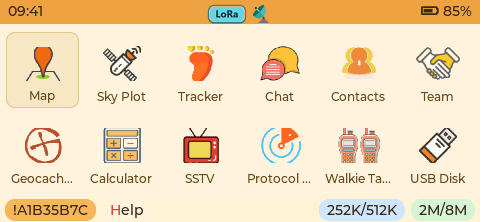
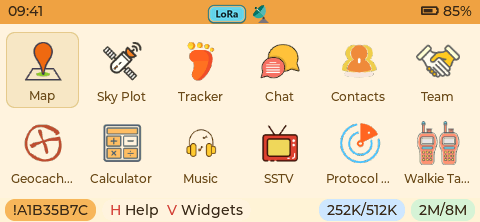
Clarify contact persistence and refresh the launcher guide

diff --git a/README.md b/README.md
@@ -331,15 +331,29 @@ See [SECURITY.md](SECURITY.md) to report a suspected vulnerability privately.
 
 ![logo](docs/images/logo_big.png)
 
-Humanity has never possessed a greater capacity to connect, yet the authority to establish a connection is becoming increasingly concentrated. Accounts determine whether an identity exists. Applications hold the relationships between people. Platforms decide whether information can arrive. Location, searches, reading, conversations, and movement accumulate into digital records that can become more complete than a person's memory and more influential than a person's own explanation.
+On a walk, the useful things are straightforward: see where you are, find a
+route, keep a record and stay in touch with your group. Trail Mate puts those
+tools on a device with its own controls, local maps and a radio. Installed map
+data remains useful when Internet access is unavailable; communication uses
+the protocol and links you configure.
 
-When communication gateways, identity systems, accumulated data, and interpretive authority converge in a few centers, convenience gradually becomes governing power. Algorithms begin to decide who is visible, who is suspicious, who receives an opportunity, and who is excluded. Those decisions disappear into models, policies, and risk scores where responsibility is difficult to identify and appeal is difficult to reach. Countless local choices made in the name of efficiency can accumulate into a vast and silent algorithmic bureaucracy.
+**The person carrying the device should keep control of its identity and data.**
+The device holds its author key. Maps, recordings, messages and contacts have
+local storage. Public discovery, direct contacts, Team position and personal
+tracks have separate sharing rules, so joining a network does not have to mean
+handing one service your complete activity history.
 
-**Decentralization returns the authority to establish digital life to the individual.** A person can generate and hold an identity. Contacts can remain in personally controlled storage. Messages can move directly between devices. Position can be shared only with recipients selected by the user. Changing platforms leaves identity intact. A discontinued service leaves human relationships intact. Infrastructure failure leaves people with the ability to communicate and coordinate.
+When a larger screen helps, use the browser or Center to edit settings, prepare
+maps or work on a trail. The device can authorize a specific publication while
+the computer handles its network connection. Independent directories index
+signed content, and recipients can verify the author's signature. Publishing
+still makes that chosen content public; the privacy section above explains what
+others can retain.
 
-**Trail Mate turns that authority into a system people can hold.** It runs on personally held embedded devices and Linux portable terminals, keeping identity, contacts, messages, position, maps, and tracks on the user's devices. Meshtastic, MeshCore, and Reticulum provide selectable decentralized network paths. Offline maps and on-device TAK capabilities keep navigation, situational awareness, and team coordination available beyond the public Internet.
-
-Trail Mate is something close to a decentralized phone. Users hold their data directly, choose their connection paths, and can understand every sharing relationship. Links may be narrow, device resources may be constrained, and the environment may be completely off-grid; identity, communication, navigation, and coordination remain in human hands.
+Portable files, device-held identity and independently operated services give
+people alternatives when a provider changes or disappears. That is the reason
+for bringing offline navigation, Meshtastic, MeshCore, Reticulum and team tools
+together: keep a useful field companion in the user's hands.
 
 > **Connection is a capability people can hold. Trail Mate keeps that capability in the hands of each user.**
 
@@ -454,10 +468,17 @@ Ongoing work focuses on bug fixes, reliability and security, protocol interopera
 
 ### 🧭 Main Menu Overview
 
-![main menu](docs/images/main.png)
+![main menu](docs/images/menu-widgets/pager-menu.png)
 
-The main menu provides quick access to GPS, LoRa chat, tracker, and system utilities,
-designed for fast navigation on a physical keyboard without deep menu nesting.
+The main menu provides quick access to maps, chat, Tracker, Music and utilities.
+Pager, T-Deck and Wio L2 use the same grid with a column count that adapts to the
+available width. Pager uses W/A/S/D or the wheel to select an app, V to switch
+between apps and widgets, and H for Help. Touch devices expose the same pages
+through their controls and gestures.
+
+*Current native Pager preview with simulated service state. The footer keeps
+the V shortcut visible; this image demonstrates the interface rather than a
+physical-device test.*
 
 
 ### 🧭 GPS Map (Performance-First)
@@ -581,7 +602,7 @@ Messages view shows recent conversations and history for quick review.
 * Compatible with **MeshCore networks** (native MeshCore packet path)
 * Standalone operation with on-device controls and optional USB tools; Meshtastic / MeshCore companion-app connections are outside the supported product workflow
 * Designed for high latency, low bandwidth, and packet-loss environments
-* Contacts, conversations, and messages are persisted on-device; the SD card is the configuration source for Reticulum networking and its editable contact directory
+* Contacts, conversations and messages persist on-device. Reticulum networking uses the SD working configuration; the firmware manages its binary peer directory.
 
 For the Reticulum SD-card format, file locations, contact import, and on-device operations, see the [Reticulum Mode User Guide](https://github.com/vicliu624/trail-mate/wiki/3.5-Configuration-Guide).
 
@@ -619,7 +640,13 @@ Nomad Network renders Reticulum Micron pages directly on the device. The embedde
 
 Contacts is a persistent on-device communication directory. It combines discovered and user-maintained contacts, recent activity, and protocol identities, with quick access to direct messaging, calls, ping, or team actions when supported by the active protocol and hardware.
 
-On keyboard-equipped interfaces, press `S` to search contacts. Contacts may also be saved from discovery results or added in bulk by editing the Reticulum contact file on the SD card. The Wiki guide above documents the full key and file workflow.
+On keyboard-equipped interfaces, press `S` to search contacts. Save a discovered
+peer from Nearby or use Contacts > Add. A Reticulum destination entered without
+verified identity keys remains `Address pending` until a valid announce or path
+response supplies them. The firmware owns `/mesh/peers.bin`; current firmware
+does not import contacts from a hand-edited TSV/JSON file. See the
+[Reticulum guide](https://github.com/vicliu624/trail-mate/wiki/4.1-Reticulum,-LXMF-and-RNode-Bridge)
+for the supported workflow.
 
 ### 💻 Data Exchange (PC Link)
 
@@ -915,7 +942,7 @@ This section provides a searchable implementation index. The [Trail Mate Wiki](h
 - Meshtastic public mesh compatibility (LongFast/PSK)
 - MeshCore network compatibility (native MeshCore packet path)
 - On-device Reticulum/LXMF runtime with LoRa, AutoInterface, and TCP gateway interfaces
-- SD-card-based Reticulum configuration and editable contact directory
+- SD-backed Reticulum network/LXMF settings and a device-managed persistent contact directory
 - Standalone controls and optional USB tooling; no supported Meshtastic / MeshCore companion-app workflow
 - Message history and conversation list
 - Routing confirmations and reliability diagnostics

diff --git a/docs/images/menu-widgets/README.md b/docs/images/menu-widgets/README.md
@@ -1,0 +1,12 @@
+# Launcher and widget screenshot sources
+
+`pager-menu.png` was refreshed on October 17, 2026 from the actual production
+LVGL native preview. It includes Music and the H Help / V Widgets footer. The
+UI sources match the 1.0.0 candidate; device/service values are simulated.
+`tests/site/menu-widgets-native.test.mjs` captures the launcher, and the Pager
+input regression drives its keypad/encoder navigation and Help behavior.
+
+The other images retain earlier native launcher/widget captures. They illustrate
+those layouts and are not camera captures, radio tests or proof of physical
+input acceptance. Captions and support claims should use the applicable board's
+separate verification record.
